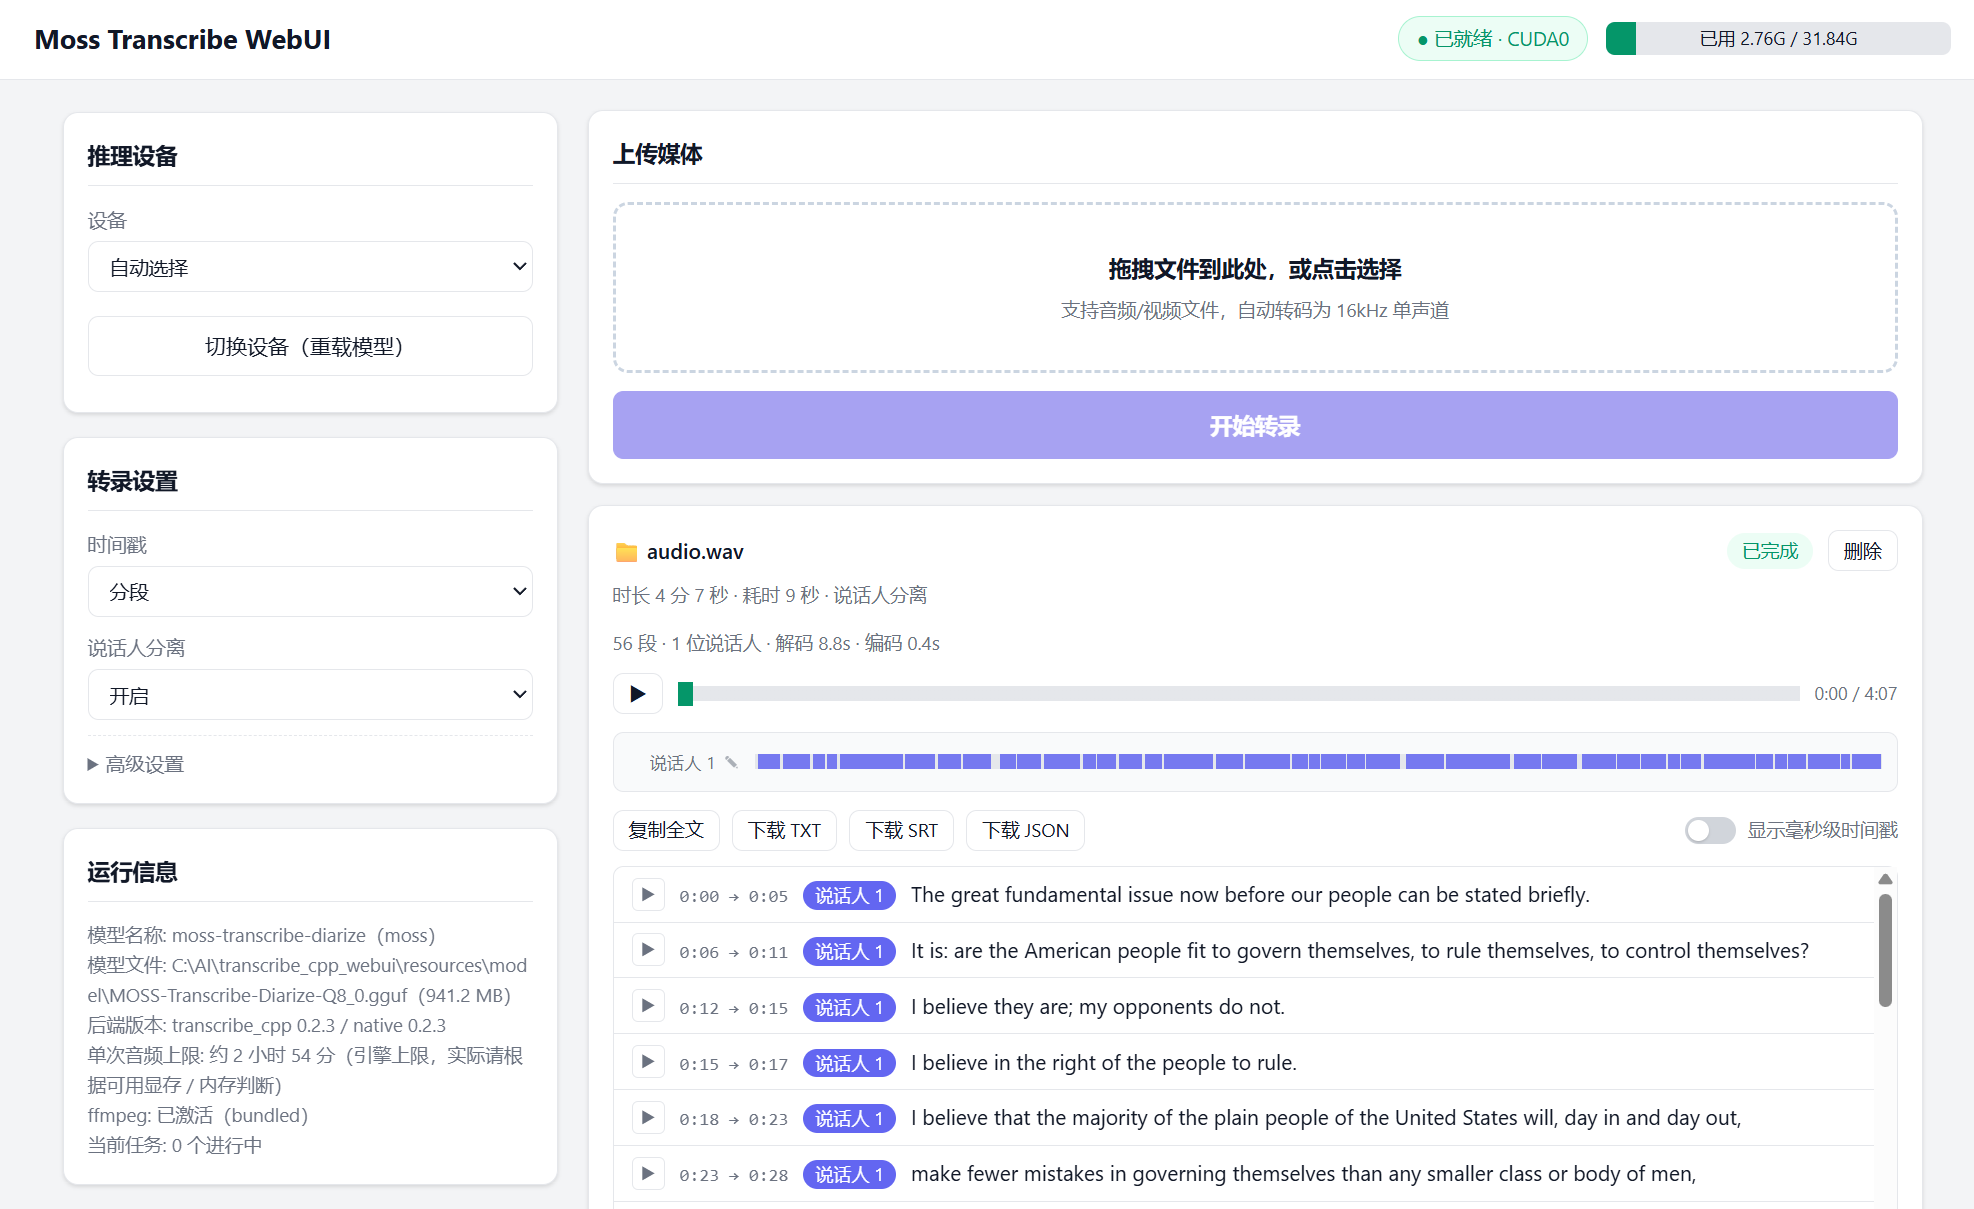
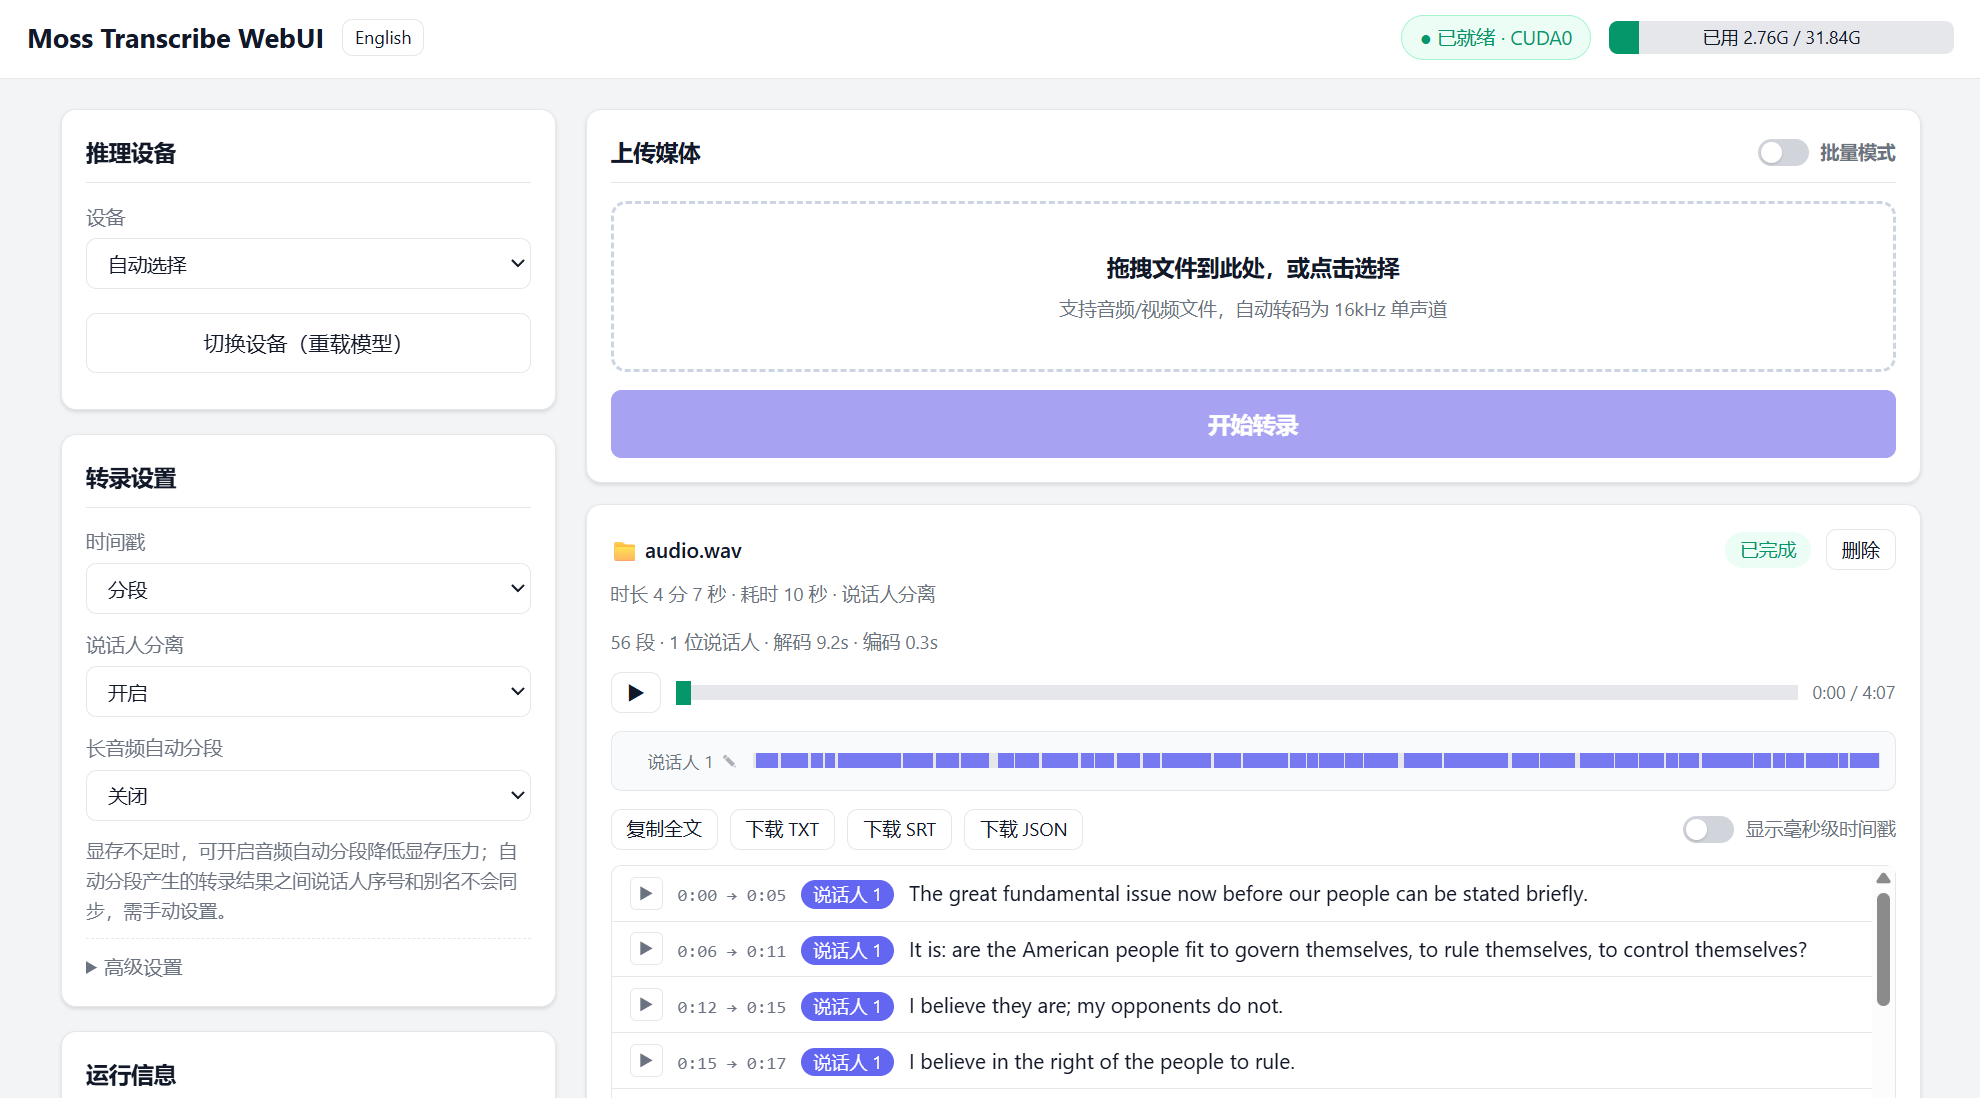
v0.2.0 release: manual polish docs + format readme

diff --git a/README_EN.md b/README_EN.md
@@ -4,13 +4,13 @@
 
 [中文](README.md) | **English**
 
-A **high-performance local** speech transcription WebUI built on `transcribe.cpp` + `Moss-Transcribe-Diarize`, with millisecond-level timestamps and speaker diarization. Import audio or video in any format and export TXT, SRT, or JSON transcripts. **GPU acceleration Ready** — a 4-minute audio takes only 10 seconds to transcribe.
+A **high-performance local** speech transcription WebUI built on [`transcribe.cpp`](https://github.com/handy-computer/transcribe.cpp) + [`Moss-Transcribe-Diarize`](https://github.com/OpenMOSS/MOSS-Transcribe-Diarize), with millisecond-level timestamps and speaker diarization. Import audio or video in any format and export TXT, SRT, or JSON transcripts. **GPU acceleration Ready** — a 4-minute audio takes only 10 seconds to transcribe.
 
 [![License](https://img.shields.io/badge/license-Apache--2.0-blue)](LICENSE)
 [![Release](https://img.shields.io/github/v/release/TigerSHe1998/Moss-Transcribe-WebUI)](https://github.com/TigerSHe1998/Moss-Transcribe-WebUI/releases)
 [![Downloads](https://img.shields.io/github/downloads/TigerSHe1998/Moss-Transcribe-WebUI/total)](https://github.com/TigerSHe1998/Moss-Transcribe-WebUI/releases)
 
-![ScreenShot](readme_pic/ScreenShot_CN.png)
+![ScreenShot_EN](readme_pic/ScreenShot_EN.png)
 
 [Download](https://github.com/TigerSHe1998/Moss-Transcribe-WebUI/releases)
 
@@ -20,7 +20,7 @@ A **high-performance local** speech transcription WebUI built on `transcribe.cpp
 
 Python 3.10 or newer is required. Visit [python.org](https://www.python.org/downloads/).
 
-(If you use the quick-deploy package from Releases, the following files are already in place — just run the one-click script.)
+(If you use the quick-deploy package from Releases, the following files are already in place — just run the one-click setup script.)
 
 1. Put ffmpeg into the `resources\ffmpeg` folder. Guide: [FFMPEG_Guide](resources/ffmpeg/#PUT_FFMPEG_HERE)
 2. Put the MOSS-Transcribe-Diarize GGUF model into the `resources\model` folder. Guide: [GGUF_Guide](resources/model/#PUT_MOSS_GGUF_HERE)
@@ -49,10 +49,10 @@ Available options: `-h/--help`, `--host`, `--port`, `-m/--model` (GGUF path; def
 - [X] **Speaker aliases**: click the ✎ next to a timeline name to rename "Speaker 1" to anything (e.g. Sam)
 - [X] **Timestamp precision**: per-result toggle for millisecond-level timestamps (seconds by default)
 - [X] **Playback player**: play/pause, draggable seek bar, automatic highlighting with scroll-follow of the matching text, timeline-bar click to jump to an entry
-- [X] **Auto-split for long audio**: enabled when VRAM is tight — audio longer than the selected window (15/30/45/60 min) is automatically split into queued jobs
+- [X] **Auto-split for long audio**: useful for low VRAM hardware — audio longer than the selected window (15/30/45/60 min) is automatically split into queued jobs
 - [X] **Batch upload**: enable batch mode to select multiple files at once; they are uploaded and queued one by one
-- [X] **Bilingual UI (中文 / English)**: one-click language toggle in the header
-- [ ] **CLI for Agent transcription**: Todo
+- [X] **Multilanguage support (中文 / English)**: one-click language toggle in the header
+- [ ] **CLI for Agent use**: Todo
 - [ ] **Hotwords**: the transcribe.cpp backend does not yet support hotword input for Moss models; will follow once upstream lands
 
 ## Notes

diff --git a/README.md b/README.md
@@ -4,7 +4,7 @@
 
 **中文** | [English](README_EN.md)
 
-基于 `transcribe.cpp` + `Moss-Transcribe-Diarize` 的**本地高性能**语音转写 WebUI，支持毫秒级时间戳与说话人分离。导入任意格式视频或音频，输出 TXT、SRT 或 JSON 转录结果，**GPU 加速 Ready**，4分钟音频推理只需10秒钟。
+基于 [`transcribe.cpp`](https://github.com/handy-computer/transcribe.cpp) + [`Moss-Transcribe-Diarize`](https://github.com/OpenMOSS/MOSS-Transcribe-Diarize) 的**本地高性能**语音转写 WebUI，支持毫秒级时间戳与说话人分离。导入任意格式视频或音频，输出 TXT、SRT 或 JSON 转录结果，**GPU 加速 Ready**，4分钟音频推理只需10秒钟。
 
 [![License](https://img.shields.io/badge/license-Apache--2.0-blue)](LICENSE)
 [![Release](https://img.shields.io/github/v/release/TigerSHe1998/Moss-Transcribe-WebUI)](https://github.com/TigerSHe1998/Moss-Transcribe-WebUI/releases)
@@ -49,9 +49,9 @@ run_webui.bat          :: 启动后本机访问 http://127.0.0.1:8390
 - [X] **说话人别名**：点时间轴名字旁的 ✎ 可将「说话人 1」改为任意名字（如 Sam）
 - [X] **时间戳精度**：结果卡片支持调整「显示毫秒级时间戳」开关（默认秒级）
 - [X] **回听播放器**：播放/暂停、进度条拖拽、自动高亮对应文本并滚动跟随、时间轴色块跳转到对应条目
-- [X] **长音频自动分段**：显存不足时开启，超长音频按所选窗口（15/30/45/60 分钟）自动切分为多个任务排队
+- [X] **长音频自动分段**：显存不足时可启用，按所选窗口（15/30/45/60 分钟）自动将音频切分为多个任务排队
 - [X] **批量上传**：开启「批量模式」后支持一次选择多个文件，逐个自动上传排队
-- [X] **中英双语界面**：标题栏一键切换界面语言（中文 / English）
+- [X] **English Support**：一键切换界面语言（中文 / English）
 - [ ] **CLI 供 Agent 快速转录**：Todo
 - [ ] **热词支持**：transcribe.cpp 后端暂未适配 Moss 模型的热词输入，上游适配后跟进
 
